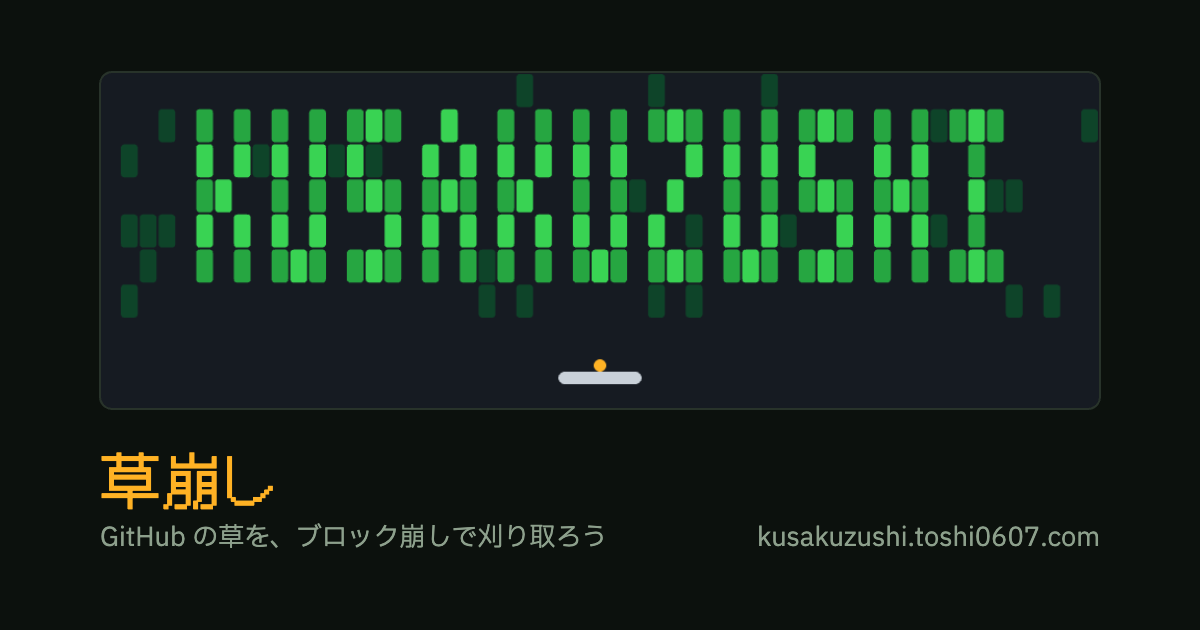
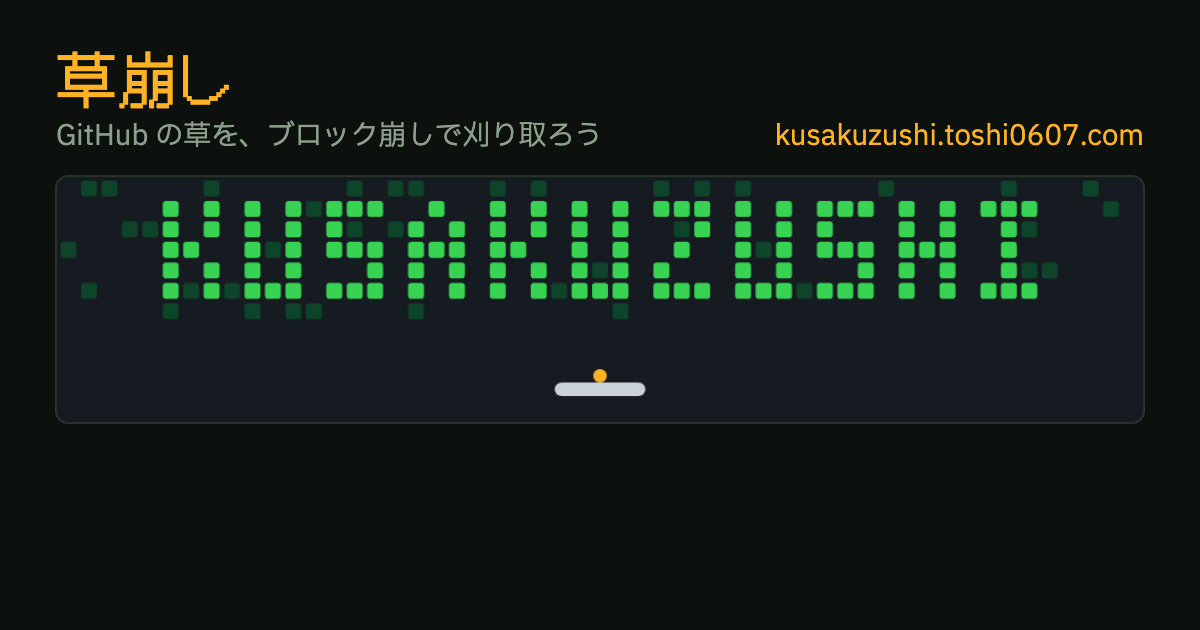
fix(web): トップページの OGP 画像の文字を X のラベルの外へ移す
X は summary_large_image のカード画像の左下にタイトルのラベルを重ねる。
スマホ幅ではタグラインが丸ごと隠れ、ワードマークの下端にもかかっていた。
見出し(ワードマーク、タグライン + ホスト名)を上、盤面を下に並べ替え、
y 480 から下には何も置かない。og.png は記載の手順で再生成した。

diff --git a/apps/web/tools/og-card.ts b/apps/web/tools/og-card.ts
@@ -15,10 +15,14 @@
  * 草に描くワードマークを独自に描き直さないための制約(lessons.md 2026-07-25)。
  * 余白のノイズ草は Math.random なので再生成のたびに微妙に変わる — 装飾なので
  * 差分が出ること自体は問題ない。
+ *
+ * 並びは上から、ワードマーク、タグライン + ホスト名、盤面。下端は空けておく。
+ * X は summary_large_image のカード画像の左下にタイトルのラベルを重ねて描き、
+ * 幅 360px のスマホではこの画像の y 488 から下が隠れる(DESIGN-VISUAL.md §8)。
  */
 
 import type { ContributionGrid } from "@kusakuzushi/core";
-import { DEFAULT_CONFIG, Game, computeLayout, render } from "@kusakuzushi/core";
+import { DEFAULT_CONFIG, Game, SITE_HOST, computeLayout, render } from "@kusakuzushi/core";
 
 import { buildDemoGrid } from "../src/demo-grid";
 import { BODY_FONT, DISPLAY_FONT, SHARE_COLORS } from "../src/share";
@@ -27,22 +31,30 @@ import { WEB_DARK_THEME } from "../src/theme";
 const CARD_WIDTH = 1200;
 const CARD_HEIGHT = 630;
 
-const BOARD_WIDTH = 1000;
-const BOARD_X = (CARD_WIDTH - BOARD_WIDTH) / 2;
-const BOARD_Y = 72;
+const CARD_PADDING = 56;
+const BOARD_WIDTH = CARD_WIDTH - CARD_PADDING * 2;
+const BOARD_X = CARD_PADDING;
 const BOARD_RADIUS = 12;
+
+/**
+ * X のタイトルのラベルが覆い始める y(1200x630 換算)。x.com で 2026-10-02 に実測した
+ * ラベルは、カードの下端から 33px 上に上端があり、高さ 20px。幅 308px のカード
+ * (幅 390px のスマホ)で y 503 から、幅 278px のカード(幅 360px のスマホ)で
+ * y 488 から隠れる。文字と盤面はこれより上に収める。
+ */
+const X_LABEL_TOP = 480;
 
 /** 草の下端とボールの上に残す余白(盤面の元解像度基準)。 */
 const GRASS_BOTTOM_PADDING = 28;
 const BALL_TOP_PADDING = 8;
 
+const TITLE_TOP = 50;
 const TITLE_SIZE = 60;
-const TAGLINE_SIZE = 26;
-const TITLE_GAP = 42;
-const TAGLINE_GAP = 12;
+const TAGLINE_SIZE = 28;
+const TAGLINE_GAP = 10;
+const BOARD_GAP = 28;
 
 const TAGLINE = "GitHub の草を、ブロック崩しで刈り取ろう";
-const SITE_LABEL = "kusakuzushi.toshi0607.com";
 
 /** アトラクト画面と同じ盤面(ワードマーク + パドル + ボール)を 1 フレーム描く。 */
 function renderBoard(grid: ContributionGrid): HTMLCanvasElement {
@@ -99,6 +111,23 @@ export function composeOgCard(): HTMLCanvasElement {
   ctx.fillStyle = SHARE_COLORS.soil;
   ctx.fillRect(0, 0, CARD_WIDTH, CARD_HEIGHT);
 
+  ctx.textBaseline = "top";
+  ctx.textAlign = "left";
+
+  ctx.fillStyle = SHARE_COLORS.marquee;
+  ctx.font = `${TITLE_SIZE}px ${DISPLAY_FONT}`;
+  ctx.fillText("草崩し", BOARD_X, TITLE_TOP);
+
+  const taglineTop = TITLE_TOP + TITLE_SIZE + TAGLINE_GAP;
+  ctx.font = `${TAGLINE_SIZE}px ${BODY_FONT}`;
+  ctx.fillStyle = SHARE_COLORS.faint;
+  ctx.fillText(TAGLINE, BOARD_X, taglineTop);
+
+  ctx.fillStyle = SHARE_COLORS.marquee;
+  ctx.textAlign = "right";
+  ctx.fillText(SITE_HOST, BOARD_X + BOARD_WIDTH, taglineTop);
+  ctx.textAlign = "left";
+
   const grid = buildDemoGrid();
   const board = renderBoard(grid);
   const slices = computeBoardSlices(grid);
@@ -106,12 +135,16 @@ export function composeOgCard(): HTMLCanvasElement {
   const grassHeight = Math.round(slices.grassHeight * scale);
   const paddleHeight = Math.round(slices.paddleHeight * scale);
   const boardHeight = grassHeight + paddleHeight;
+  const boardY = taglineTop + TAGLINE_SIZE + BOARD_GAP;
+  if (boardY + boardHeight > X_LABEL_TOP) {
+    throw new Error(`盤面の下端 y ${boardY + boardHeight} が X のラベルの帯(y ${X_LABEL_TOP} から)に入っています`);
+  }
 
   ctx.save();
   ctx.beginPath();
-  ctx.roundRect(BOARD_X, BOARD_Y, BOARD_WIDTH, boardHeight, BOARD_RADIUS);
+  ctx.roundRect(BOARD_X, boardY, BOARD_WIDTH, boardHeight, BOARD_RADIUS);
   ctx.clip();
-  ctx.drawImage(board, 0, 0, board.width, slices.grassHeight, BOARD_X, BOARD_Y, BOARD_WIDTH, grassHeight);
+  ctx.drawImage(board, 0, 0, board.width, slices.grassHeight, BOARD_X, boardY, BOARD_WIDTH, grassHeight);
   ctx.drawImage(
     board,
     0,
@@ -119,7 +152,7 @@ export function composeOgCard(): HTMLCanvasElement {
     board.width,
     slices.paddleHeight,
     BOARD_X,
-    BOARD_Y + grassHeight,
+    boardY + grassHeight,
     BOARD_WIDTH,
     paddleHeight,
   );
@@ -128,25 +161,8 @@ export function composeOgCard(): HTMLCanvasElement {
   ctx.strokeStyle = SHARE_COLORS.ridge;
   ctx.lineWidth = 2;
   ctx.beginPath();
-  ctx.roundRect(BOARD_X, BOARD_Y, BOARD_WIDTH, boardHeight, BOARD_RADIUS);
+  ctx.roundRect(BOARD_X, boardY, BOARD_WIDTH, boardHeight, BOARD_RADIUS);
   ctx.stroke();
-
-  const titleTop = BOARD_Y + boardHeight + TITLE_GAP;
-  ctx.textBaseline = "top";
-  ctx.textAlign = "left";
-
-  ctx.fillStyle = SHARE_COLORS.marquee;
-  ctx.font = `${TITLE_SIZE}px ${DISPLAY_FONT}`;
-  ctx.fillText("草崩し", BOARD_X, titleTop);
-
-  const taglineTop = titleTop + TITLE_SIZE + TAGLINE_GAP;
-  ctx.fillStyle = SHARE_COLORS.faint;
-  ctx.font = `${TAGLINE_SIZE}px ${BODY_FONT}`;
-  ctx.fillText(TAGLINE, BOARD_X, taglineTop);
-
-  ctx.textAlign = "right";
-  ctx.fillText(SITE_LABEL, BOARD_X + BOARD_WIDTH, taglineTop);
-  ctx.textAlign = "left";
 
   return canvas;
 }

diff --git a/apps/web/tools/og-card-main.ts b/apps/web/tools/og-card-main.ts
@@ -13,7 +13,7 @@ const SAVE_ENDPOINT = "/__save-card?target=og";
 // 使用する字面をすべて指定して load を待ってから合成する。
 const FONT_LOADS: readonly [string, string][] = [
   ['60px "DotGothic16"', "草崩し"],
-  ['26px "IBM Plex Sans JP"', "GitHubの草を、ブロック崩しで刈り取ろうkusakuzushi.toshi0607.com"],
+  ['28px "IBM Plex Sans JP"', "GitHubの草を、ブロック崩しで刈り取ろうkusakuzushi.toshi0607.com"],
 ];
 
 function canvasToBlob(canvas: HTMLCanvasElement): Promise<Blob> {

diff --git a/DESIGN-VISUAL.md b/DESIGN-VISUAL.md
@@ -265,6 +265,12 @@ Theme 型の変更は optional フィールドのみ(`hudFont?`, `accentColor?`,
 - **キャプションの下に罫線を引き、その下をプロダクトの 1 行にする**(2026-10-02)。左からワードマーク「草崩し」(36px アンバー)、誘い文「あなたの草もどうですか？」(28px Plex、`--ink`)、右端にホスト名(28px Plex、アンバー)。保存した画像は、投稿文もリンクも無いまま単独で出回ることがあり、画像はリンクにならない。そこで、名前・見た人も遊べること・行き先の 3 つを、読める文字としてカードに描く。追加前のカードが印字していたのはワードマークだけで、「シェアされたプレイ画像だけでは本体につながる感じがしづらい」という指摘を受けた
   - リザルト(誰が・どれだけ)とプロダクトの 1 行は、罫線(`--ridge` 2px)で分ける。罫線を引かずにスコアの下へ誘い文を置くと、誘い文がリザルトの 3 行目に読める(修正前の実物に重ねた試作で比べた)
   - 誘い文とホスト名は Plex で組む。DotGothic16 の `text=` サブセットはホスト名の英小文字の大半(h i k m o s t u z)を含まず、足りない字は無言で別書体になる(§6)。トップページの OGP 画像(`public/og.png`)も、ワードマークだけを DotGothic16 で、タグラインとホスト名を Plex で組んでいる
+- **トップページの OGP 画像(`apps/web/public/og.png`)は、上から「ワードマーク → タグライン + ホスト名 → 盤面」と並べ、y 480 から下には何も置かない**(2026-10-03)。X は `summary_large_image` のカード画像の左下に、タイトル(トップページでは `kusakuzushi.toshi0607.com`)を書いた黒いラベルを重ねて描く。x.com で 2026-10-02 に実測したラベルは、左から 13px、上端がカードの下端から 33px 上、高さ 20px、13px の白字、背景 `rgba(0,0,0,0.77)`、幅は文字幅 + 16px。幅 518px のカード(デスクトップ Web)でも幅 308px のカード(幅 390px のモバイル Web)でも同じ寸法なので、1200x630 の画像に占める範囲はカードが小さいほど広がる。デスクトップで y 554〜600、幅 390px のスマホで y 503〜581(x 47〜767)、幅 360px のスマホで y 488 から下を覆う
+  - 修正前の画像は、盤面の下にワードマークとタグライン・ホスト名を置いていた。スマホではタグラインが丸ごとラベルに隠れ、ワードマークの下端にもラベルがかかっていた(`#草崩し` の実際の投稿で確認)
+  - 見出しを上、盤面を下にした。トップページ自体の並び(§3、見出しの下にアトラクト画面)と同じ順になる。盤面を上に残して全体を詰める案は文字がラベルの帯のすぐ上に来て、共有カードと同じ「上端に 1 行」の案はワードマークが小さくなり、スマホの幅で読みにくかった(3 案に実測のラベルを重ねて比べた)
+  - ワードマーク 60px(DotGothic16、アンバー)、タグライン 28px(Plex、`--ink-faint`)、ホスト名 28px(Plex、アンバー。保存画像のプロダクトの 1 行と同じ色)。盤面はカードの左右 56px の余白まで広げた(1088px)。文字と盤面の下端は y 423
+  - 生成器(`apps/web/tools/og-card.ts`)は、盤面の下端が y 480 を超えると例外を投げる。数値は 360px のスマホのラベルの上端(488)に余裕を持たせたもの
+  - 下端の約 200px は空く。X ではラベルがそこに載り、ラベルを重ねない表示先(Slack など)では空いて見える
   - ホスト名は core の `SITE_HOST` から描く。共有 URL も同じ定数から組み立てるので、画像に書いた行き先とリンクの行き先が食い違わない
   - 縦の配分は、上余白 30 / 盤面 405 / キャプション 2 行 / 罫線 / プロダクトの 1 行 / 下余白 30。1 行を足すぶん、上余白を 44 → 30、盤面とキャプションの間を 40 → 26、キャプションからスコアまでの送りを 34 → 32 に詰めた(合わせて 30px)
 - **共有シートには、画像と一緒に投稿文と共有リンクも渡す**(Web Share API の `text` / `url`。文面と URL は「Xで共有」と同じもの)。モバイルの「画像を保存」は共有シートを開くので、ファイルだけを渡すと、そこから X などへ作った投稿にリンクが付かない

diff --git a/tasks/todo.md b/tasks/todo.md
@@ -2532,3 +2532,30 @@ reviewer の台帳ウォーク: Constraints 6 行は Pass(2 行目は罫線の `
 ### 見つけたが直していないもの
 
 - クリア直前に壊れたブロックの破片(1 ブロック 6 粒、寿命 0.5 秒)は、壊れた時点の画面テーマの緑のまま写る。破片の色は core の renderer が生成時に確定させており、今回の最小修正(session.ts の 1 行)の範囲外
+
+## セッション: トップページの OGP 画像を X のラベルの外へ(2026-10-03)
+
+依頼: トップページの OGP 画像(`apps/web/public/og.png`)の文字が、X がカードに重ねるタイトルのラベルに隠れている。文字をラベルの外へ動かし、画像を再生成する。設計判断は DESIGN-VISUAL.md §8。
+
+### 確認したこと
+
+- x.com で `#草崩し` を幅 390px で開き、トップ URL の投稿のカードを計測した。ラベルは 1200x630 換算で y 503〜581、x 47〜767。タグラインは丸ごと隠れ、ワードマークの下端にもかかっていた(依頼文の計測値と一致)
+- 本番の og.png は 2026-07-25 の生成物で、盤面のセルが縦長だった頃のもの。いまの生成器で描くと正方セルになり、盤面は低くなる
+
+### やったこと
+
+- [x] 3 案(上端に 1 行 + 罫線 / 盤面を上のまま詰める / 見出しを上・盤面を下)を実際の生成器の部品で描き、実測のラベルを 278 / 308 / 518px のカードに重ねて比べた。ユーザーが「見出しを上・盤面を下」を選んだ
+- [x] `apps/web/tools/og-card.ts` の並びを変更。ホスト名は core の `SITE_HOST` から描き、色をアンバーにした。盤面の下端が y 480 を超えると例外を投げる
+- [x] 記載の手順(`/tools/og-card.html` を開いてボタンを押す)で og.png を再生成。開発サーバーは別セッションが 5173 を使っていたので、この worktree の Vite を別ポートで起動して開いた。応答は「保存しました」
+- [x] DESIGN-VISUAL.md §8 に、トップページの画像の配置と X のラベルの計測値を追記
+
+### 検証
+
+- 画素の計測: 背景色以外のピクセルは y 51〜423、x 55〜1144。360px のスマホのラベル(y 488 から)にかからない
+- ラベルを重ねた画像(278 / 308 / 518px)で、ワードマーク・タグライン・ホスト名・盤面のどれも隠れないことを目視
+- `pnpm -r test` exit 0: core 73 / ogp 125 / web 111 / extension 80 / mcp 12。`pnpm -r build` exit 0。`dist/og.png` は `public/og.png` とバイト一致
+
+### 見つけたが直していないもの
+
+- `og-card.ts` の `computeBoardSlices` のコメントは盤面を「2:1、約 190px の空白」と書いているが、いまの盤面は 8:3(960x360)。今回の変更前からの記述
+- X は共有 URL ごとにカードをキャッシュするので、すでに投稿されたトップ URL のカードは、X のキャッシュが切れるまで旧画像のまま
